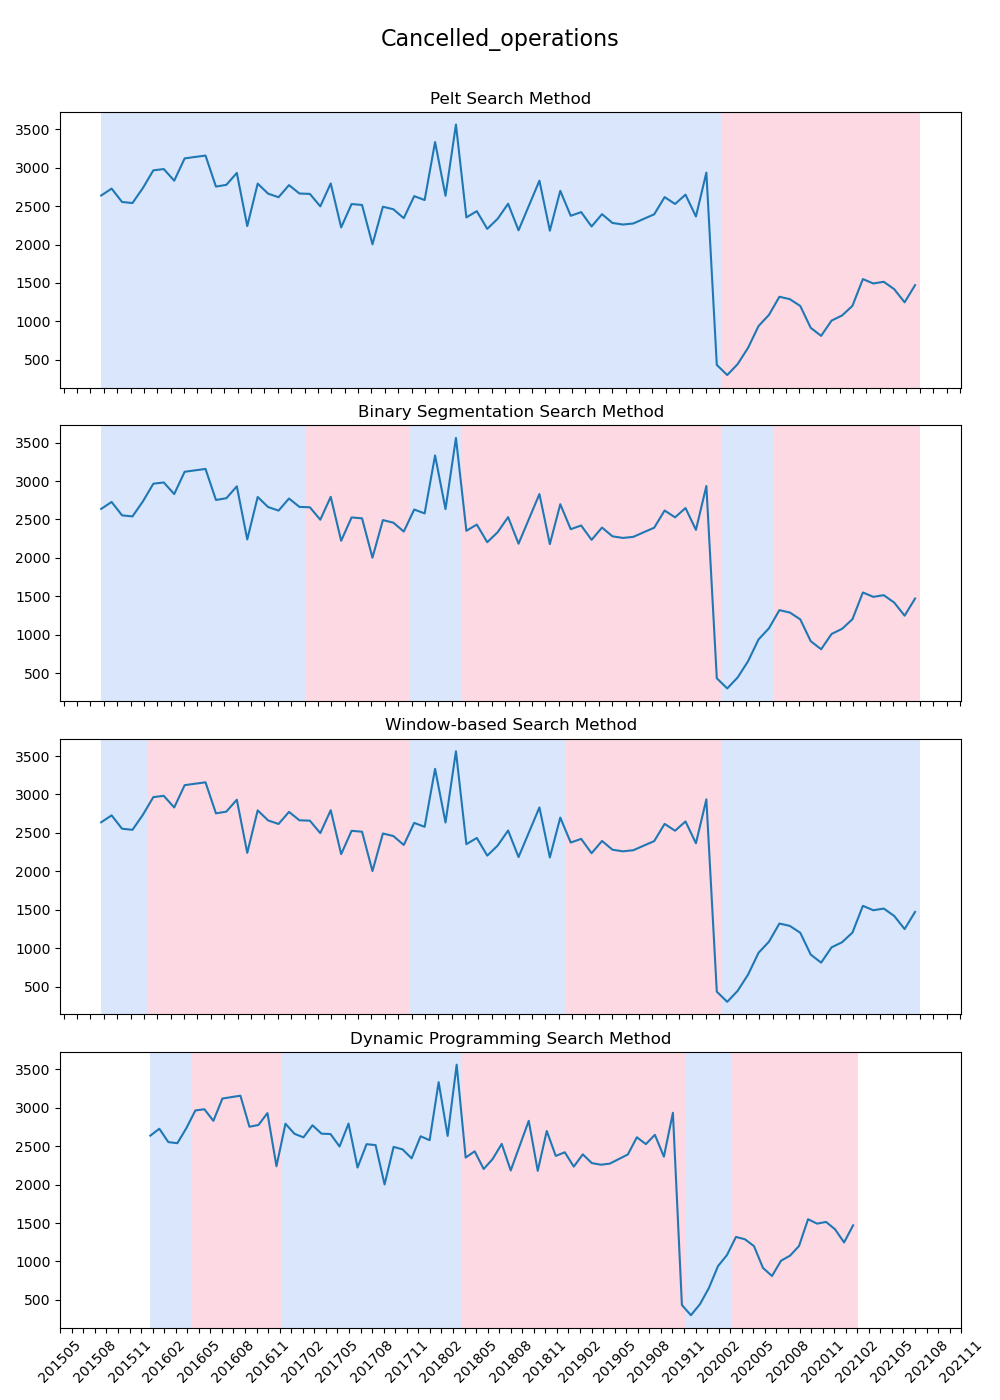
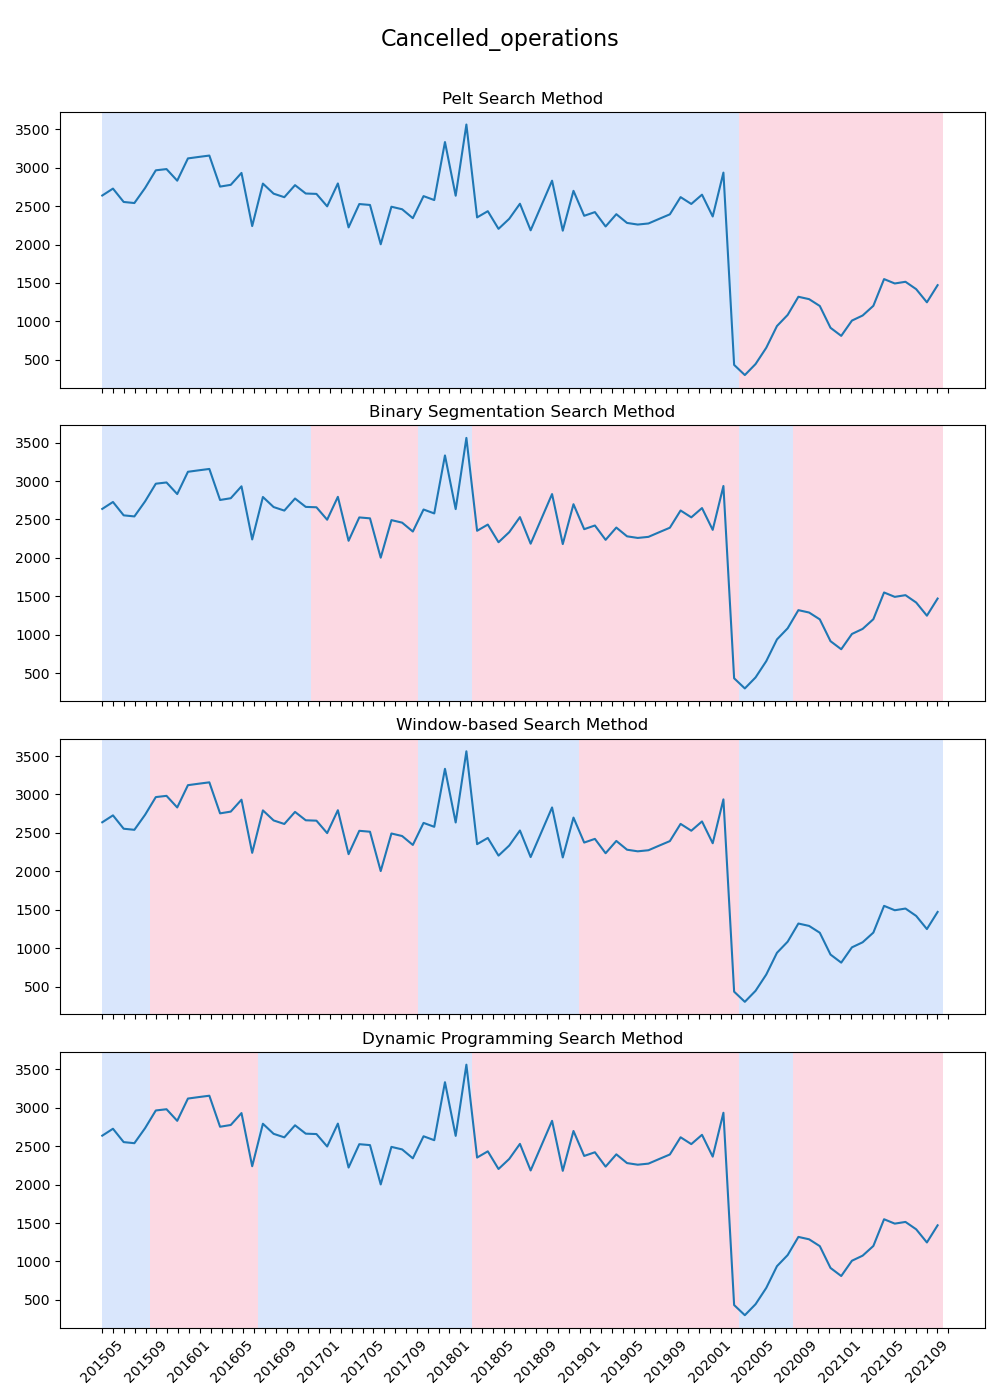
changepoint detection for 1D edited

diff --git a/final_code/1D_change_point.py b/final_code/1D_change_point.py
@@ -30,11 +30,37 @@ names = ['Total_operations', 'Cancelled_operations', 'Diagnostic_imaging_4_weeks
             'Diagnostic_endoscopy_6_weeks', 'Positive_covid', 'Covid_deaths']
 
 for i in range(len(names)):
+    change_finder(datasets[i], names[i])
     all_methods(datasets[i], names[i])
 
-# for x in [op_tot, op_can, di4, di6, de4, de6, cov_pos, cov_death]:
-#     change_finder(x)
-#     pelt_search(x)
-#     binary_segm(x)
-#     window_based(x)
-#     dynamic_program(x)
+## now for quarterly
+covid = day_to_quarter(covid)
+operations, diag, emerg = month_to_quarter([operations, diag, emerg], islist=True)
+data31, data62, operations, diag, covid, beds, emerg = HB_to_areas([data31, data62, operations, diag, covid, beds, emerg],islist=True)
+
+groupings = {'all_reg':['NCA','SCAN','WOSCAN']}
+data31, data62, operations, diag, covid, beds, emerg = add_categories([data31, data62, operations, diag, covid, beds, emerg, ], groupings, \
+                                                                            islist=True)
+
+for dataset in [data31, data62, operations, diag, covid, beds, emerg]:
+    print(dataset.index.names)
+    dataset.info()
+
+r31, t31 = extract_data(data31, ('all_reg', 'all_reg','All Cancer Types'), ['HB', 'HBT','CancerType'], \
+                                        ['NumberOfEligibleReferrals31DayStandard', 'NumberOfEligibleReferralsTreatedWithin31Days'])
+r62, t62 = extract_data(data62, ('all_reg', 'all_reg','All Cancer Types'), ['HB', 'HBT','CancerType'], \
+                                        ['NumberOfEligibleReferrals62DayStandard', 'NumberOfEligibleReferralsTreatedWithin62Days'])
+op_tot, op_can, op_cap = extract_data(operations_monthly, 'all_reg', 'HBT', ['TotalOperations', 'TotalCancelled', 'NonClinicalCapacityReason'])
+di4, di6 = extract_data(diag_monthly, ('all_reg', 'Imaging','All Imaging'), ['HBT', 'DiagnosticTestType','DiagnosticTestDescription'], \
+                                    ['NumberWaitingOverFourWeeks', 'NumberWaitingOverSixWeeks'])
+de4, de6 = extract_data(diag_monthly, ('all_reg', 'Endoscopy','All Endoscopy'), ['HBT', 'DiagnosticTestType','DiagnosticTestDescription'], \
+                                    ['NumberWaitingOverFourWeeks', 'NumberWaitingOverSixWeeks'])
+cov_pos, cov_death = extract_data(covid_monthly, 'all_reg', 'HB', ['DailyPositive', 'DailyDeaths'])
+
+datasets = [r31, t31, r62, t62, op_tot, di4, di6]
+names = ['31_day_referrals', '31_day_treated','62_day_referrals', '62_day_treated', 'quarterly_Total_operations', \
+            'quarterly_Diagnostic_imaging_4_weeks', 'quarterly_Diagnostic_imaging_6_weeks']
+
+for i in range(len(names)):
+    change_finder(datasets[i], names[i])
+    all_methods(datasets[i], names[i])

diff --git a/final_code/fcts_change_point_detection.py b/final_code/fcts_change_point_detection.py
@@ -1,22 +1,21 @@
 import changefinder
 import ruptures as rpt
 import matplotlib.pyplot as plt
-from matplotlib import ticker
 import numpy as np
 from rupture_display import display_modified
 
 #CHANGEFINDER
 
-def change_finder(points):
+def change_finder(points, title):
     xpoints = points[1,:]
-    f, (ax1, ax2) = plt.subplots(2, 1)
-    f.subplots_adjust(hspace=0.4)
+    fig, (ax1, ax2) = plt.subplots(2, 1)
+    fig.subplots_adjust(hspace=0.4)
     ax1.plot(xpoints)
     ax1.set_title("data point")
-    ax1.set_xticks(np.linspace(min(ax1.get_xticks()), max(ax1.get_xticks()),len(points[0,:])))
+    ax1.set_xticks(np.linspace(0, len(points[0,:]),len(points[0,:])))
     ax1.set_xticklabels(points[0,:])
     ax1.tick_params('x',labelrotation=45)
-    every_nth = 3
+    every_nth = 4
     for n, label in enumerate(ax1.xaxis.get_ticklabels()):
             if n % every_nth != 0:
                 label.set_visible(False)
@@ -26,13 +25,16 @@ def change_finder(points):
     scores = [cf.update(p) for p in xpoints]
     ax2.plot(scores)
     ax2.set_title("anomaly score")
-    ax2.set_xticks(np.linspace(min(ax1.get_xticks()), max(ax1.get_xticks()),len(points[0,:])))
+    ax2.set_xticks(np.linspace(0, len(points[0,:]),len(points[0,:])))
     ax2.set_xticklabels(points[0,:])
     ax2.tick_params('x',labelrotation=45)
     for n, label in enumerate(ax2.xaxis.get_ticklabels()):
             if n % every_nth != 0:
                 label.set_visible(False)
-    plt.savefig('results/changefinder.png')
+    fig.tight_layout()
+    fig.suptitle(title, size=16)
+    fig.subplots_adjust(top=0.85)
+    plt.savefig('results/changefinder_{}.png'.format(title))
     plt.show() 
 
 #RUPTURES PACKAGE
@@ -111,7 +113,7 @@ def all_methods(points, title):
     axs[2].set_title('Window-based Search Method')
     axs[3].set_title('Dynamic Programming Search Method')
 
-    axs[3].set_xticks(np.linspace(min(axs[3].get_xticks()), max(axs[3].get_xticks()),len(points[0,:])))
+    axs[3].set_xticks(np.linspace(0, len(points[0,:]),len(points[0,:])))
     axs[3].set_xticklabels(points[0,:])
     axs[3].tick_params('x',labelrotation=45)
     every_nth = 4
